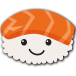
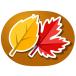
Change to fall

diff --git a/index.html b/index.html
@@ -6,10 +6,10 @@
     <meta charset="utf-8">
     <meta http-equiv="X-UA-Compatible" content="IE=edge">
     <meta name="viewport" content="width=device-width, initial-scale=1">
-    <meta name="description" content="Sushi Stickers for iPhone and iMessage by Sushi Smiles">
-    <meta name="author" content="Sushi Smiles">
+    <meta name="description" content="Fall Stickers for iPhone and iMessage by Fall Favorites">
+    <meta name="author" content="Fall Favorites">
 
-    <title>Sushi Stickers</title>
+    <title>Fall Stickers</title>
 
     <link rel="shortcut icon" href="img/favicon.ico" type="image/x-icon" />
     <link rel="apple-touch-icon" href="img/apple-touch-icon.png" />
@@ -58,7 +58,7 @@
                 </button>
                 <a class="navbar-brand page-scroll" href="#page-top">
                     <img src="img/apple-touch-icon-180x180.png">
-                    Sushi Stickers
+                    Fall Stickers
                 </a>
             </div>
 
@@ -69,7 +69,7 @@
                         <a class="page-scroll" href="#download">Download</a>
                     </li>
                     <li>
-                        <a class="page-scroll" href="mailto:colin@sushistickers.com">Contact</a>
+                        <a class="page-scroll" href="mailto:colin@fallstickers.com">Contact</a>
                     </li>
                 </ul>
             </div>
@@ -85,8 +85,8 @@
                     <div class="header-content">
                         <div class="header-content-inner">
                             <img src="img/icon-rounded.png" class="iconRounded">
-                            <h1>Sushi Smiles is a sushi sticker pack for iMessage on iPhone</h1>
-                            <a href="#download" class="btn btn-outline btn-xl page-scroll">Start Sending Sushi Smiles</a>
+                            <h1>Fall Favorites is a fall sticker pack for iMessage on iPhone</h1>
+                            <a href="https://itunes.apple.com/us/app/fall-favorites/id1155977100?mt=8" class="btn btn-outline btn-xl page-scroll">Start Sending Fall Stickers</a>
                         </div>
                     </div>
                 </div>
@@ -96,7 +96,7 @@
                             <div class="device">
                                 <div class="screen">
                                     <!-- Demo image for screen mockup, you can put an image here, some HTML, an animation, video, or anything else! -->
-                                    <img src="img/demo-screen-1.png" class="img-responsive" alt="Sushi Stickers for iPhone">
+                                    <img src="img/screen1.jpg" class="img-responsive" alt="Fall Stickers for iPhone">
                                 </div>
                                 <div class="button">
                                     <!-- You can hook the "home button" to some JavaScript events or just remove it -->
@@ -113,10 +113,10 @@
         <div class="container">
             <div class="row">
                 <div class="col-md-8 col-md-offset-2">
-                    <h2 class="section-heading">Discover the most adorable way to text</h2>
-                    <p>Sushi Smiles sushi stickers are available on the iPhone AppStore:</p>
+                    <h2 class="section-heading">The cutest way to text in autumn!</h2>
+                    <p>Fall Favorites fall stickers are available on the iPhone AppStore:</p>
                     <div class="badges">
-                        <a class="badge-link" href="https://itunes.apple.com/us/app/sushi-smiles/id1155948389?mt=8"><img src="img/app-store-badge.svg" alt=""></a>
+                        <a class="badge-link" href="https://itunes.apple.com/us/app/fall-favorites/id1155977100?mt=8"><img src="img/app-store-badge.svg" alt=""></a>
                     </div>
                 </div>
             </div>
@@ -128,8 +128,8 @@
             <div class="row">
                 <div class="col-lg-12 text-center">
                     <div class="section-heading">
-                        <h2>Dozens of faces, for dozens of emotions</h2>
-                        <p class="text-muted">Check out all the cute sushi stickers included!</p>
+                        <h2>Dozens of stickers, for dozens of emotions</h2>
+                        <p class="text-muted">Check out all the cute fall stickers included!</p>
                         <hr>
                     </div>
                 </div>
@@ -141,7 +141,7 @@
                             <div class="device">
                                 <div class="screen">
                                     <!-- Demo image for screen mockup, you can put an image here, some HTML, an animation, video, or anything else! -->
-                                    <img src="img/demo-screen-2.png" class="img-responsive" alt="iPhone Sushi Stickers"> </div>
+                                    <img src="img/screen2.jpg" class="img-responsive" alt="iPhone Fall Stickers"> </div>
                                 <div class="button">
                                     <!-- You can hook the "home button" to some JavaScript events or just remove it -->
                                 </div>
@@ -154,32 +154,32 @@
                         <div class="row">
                             <div class="col-md-6">
                                 <div class="feature-item">
-                                    <img src="img/sushi-slice_03.png" class="stickerSample">
-                                    <h3>Maguro Tuna Sushi Sticker</h3>
-                                    <p class="text-muted">Stick this crying sushi sticker on your next iMessage.</p>
+                                    <img src="img/fall-sticker-1.png" class="stickerSample">
+                                    <h3>Pumpkin Sticker</h3>
+                                    <p class="text-muted">Autumn means pumpkins! Decorate your iMessages for fall.</p>
                                 </div>
                             </div>
                             <div class="col-md-6">
                                 <div class="feature-item">
-                                    <img src="img/sushi-slice_29.png" class="stickerSample">
-                                    <h3>Salmon Sushi Sticker</h3>
-                                    <p class="text-muted">A smiling sushi sticker for your smiling text messages.</p>
+                                    <img src="img/fall-sticker-2.png" class="stickerSample">
+                                    <h3>Red Leaf Sticker</h3>
+                                    <p class="text-muted">Decorate your text with leaf stickers of all colors.</p>
                                 </div>
                             </div>
                         </div>
                         <div class="row">
                             <div class="col-md-6">
                                 <div class="feature-item">
-                                    <img src="img/sushi-slice_99.png" class="stickerSample">
-                                    <h3>Octopus Sushi Sticker</h3>
-                                    <p class="text-muted">Happy octopus sushi sticker will make your day. Text today!</p>
+                                    <img src="img/fall-sticker-3.png" class="stickerSample">
+                                    <h3>Mushroom Sticker</h3>
+                                    <p class="text-muted">Delicious mushroom sticker to celebrate the fall.</p>
                                 </div>
                             </div>
                             <div class="col-md-6">
                                 <div class="feature-item">
-                                    <img src="img/sushi-slice_75.png" class="stickerSample">
-                                    <h3>Shrimp Sushi Sticker</h3>
-                                    <p class="text-muted">Shrimp sushi sticker is made for bad moods. :(</p>
+                                    <img src="img/fall-sticker-4.png" class="stickerSample">
+                                    <h3>Hedgehog Sticker</h3>
+                                    <p class="text-muted">Cute hedgehog sticker for happy moods.</p>
                                 </div>
                             </div>
                         </div>
@@ -192,8 +192,8 @@
     <section class="cta">
         <div class="cta-content">
             <div class="container">
-                <h2>Start textings sushi stickers:</h2>
-                <a href="https://itunes.apple.com/us/app/sushi-smiles/id1155948389?mt=8" class="btn btn-outline btn-xl page-scroll">Download Now</a>
+                <h2>Start texting fall stickers:</h2>
+                <a href="https://itunes.apple.com/us/app/fall-favorites/id1155977100?mt=8" class="btn btn-outline btn-xl page-scroll">Download Now</a>
             </div>
         </div>
         <div class="overlay"></div>
